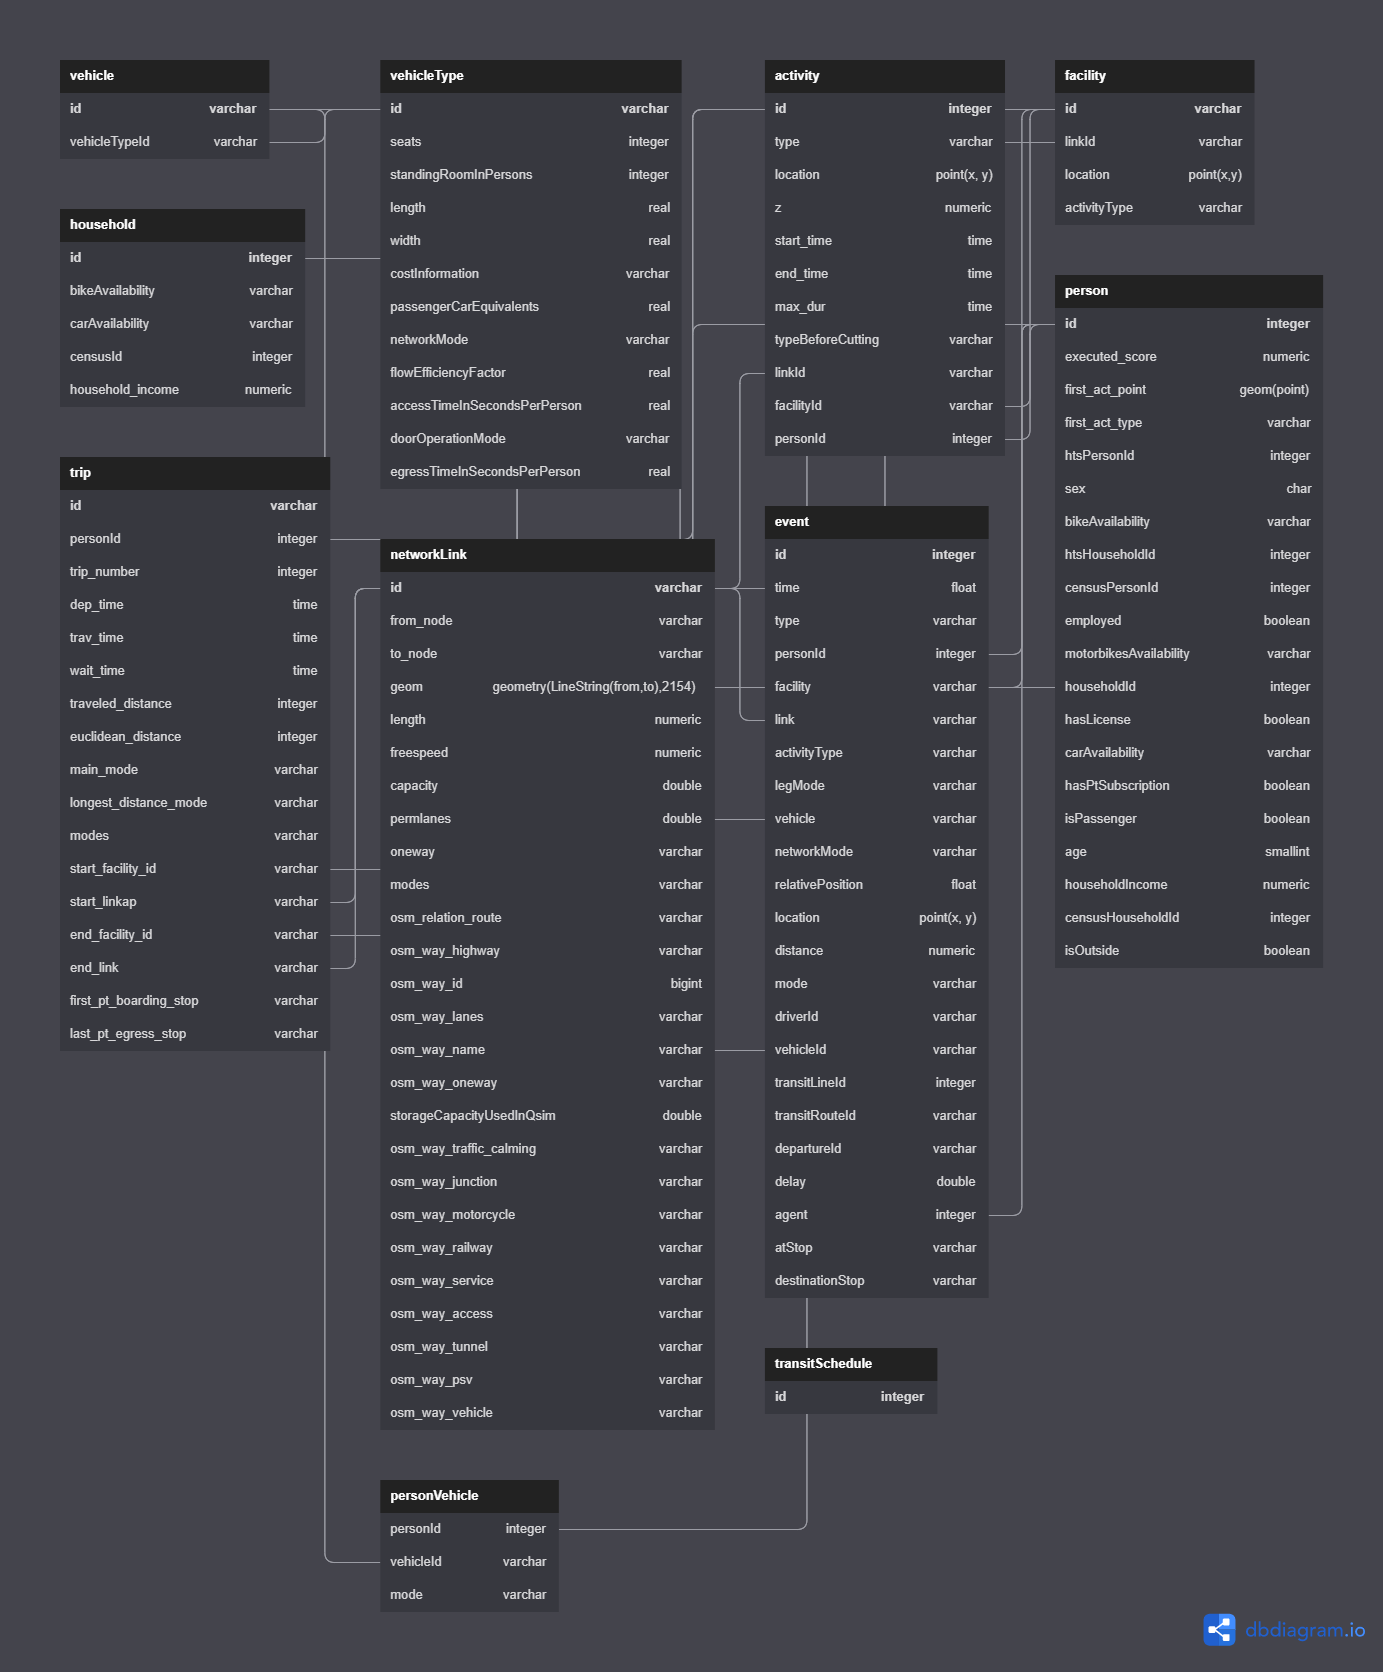
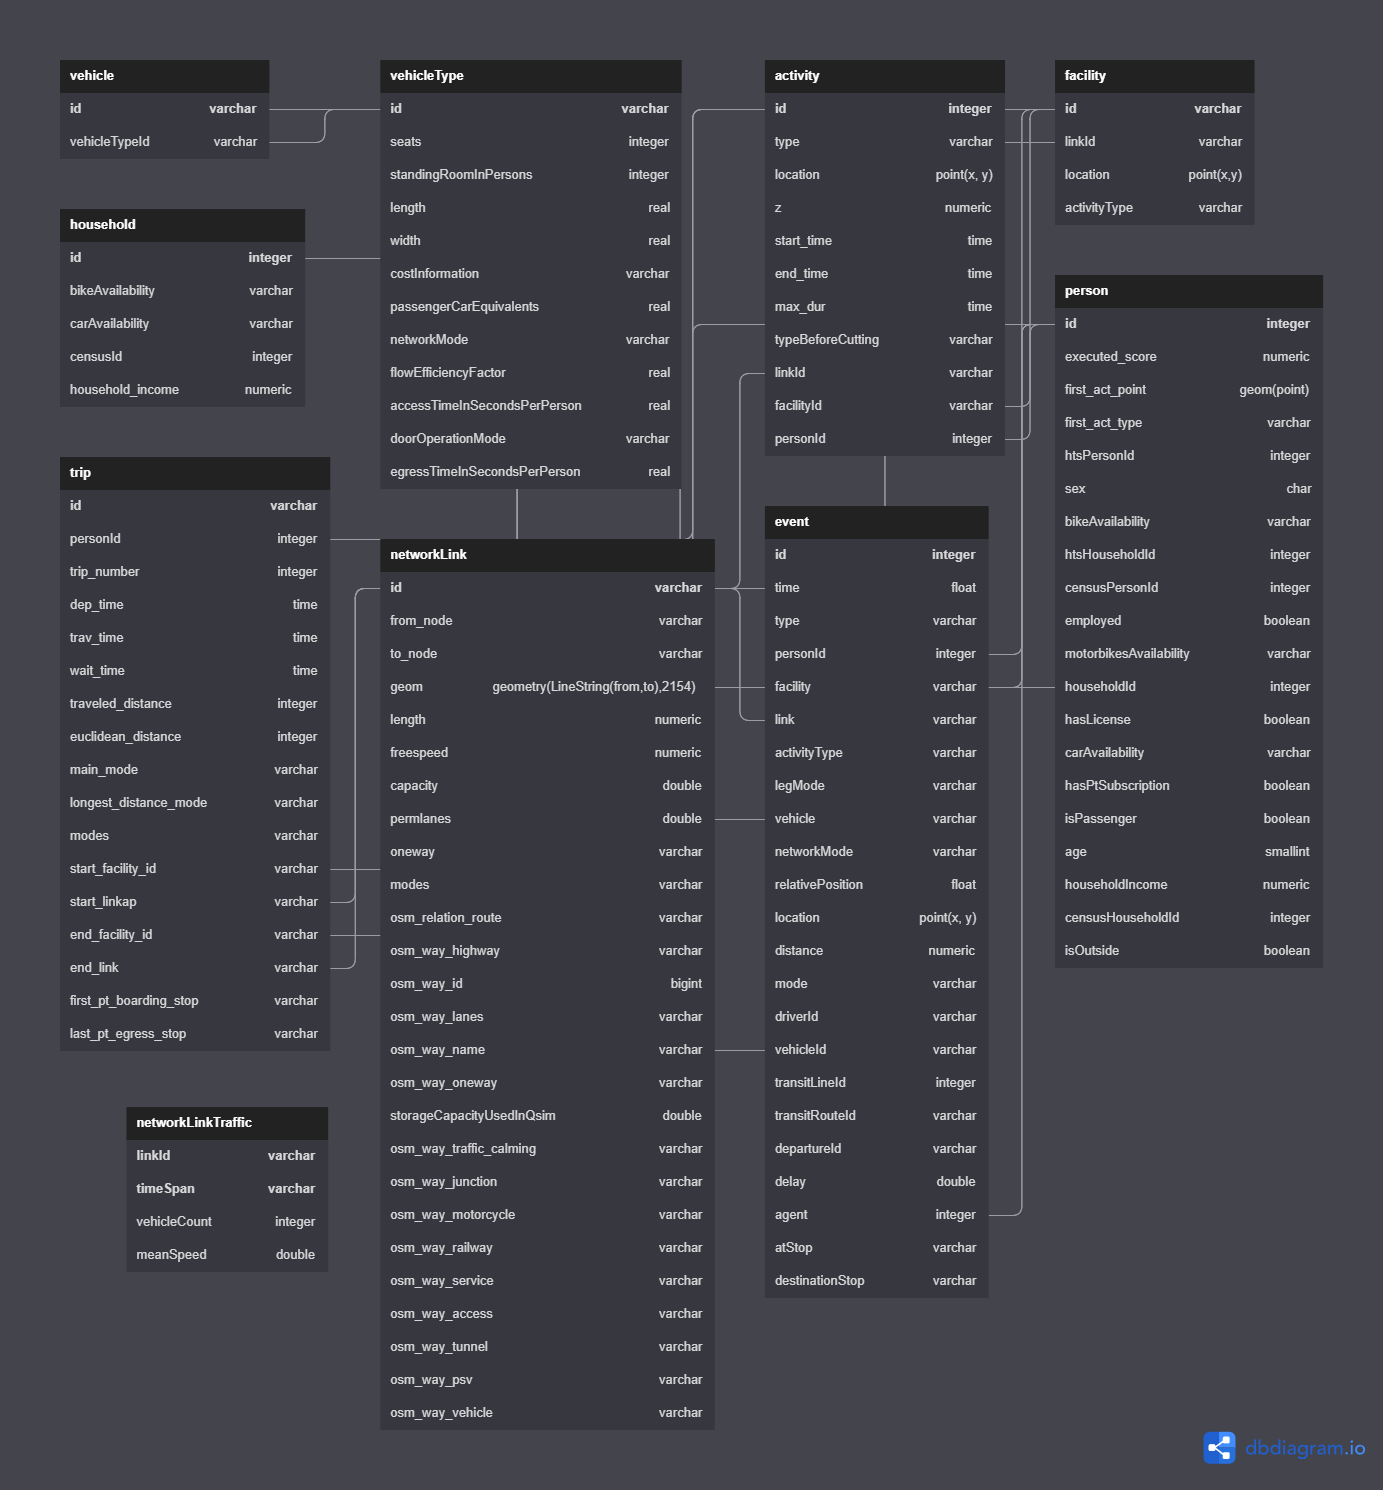
Updated database scheme and postgres template. Updated config file.

diff --git a/src/config.py b/src/config.py
@@ -10,6 +10,7 @@ PATH_NETWORK = PATH_SIMULATION_OUTPUT + '/output_network.xml.gz'
 PATH_PERSONS = PATH_SIMULATION_OUTPUT + '/output_persons.csv'
 PATH_PLANS = PATH_SIMULATION_OUTPUT + '/output_plans.xml.gz'
 PATH_TRIPS = PATH_SIMULATION_OUTPUT + '/output_trips.csv'
+PATH_DETAILED_NETWORK = PATH_SIMULATION_OUTPUT + '/detailed_network.csv'
 
 DB_CONNECTION_STRING = 'postgresql+psycopg2://<username>:<password>@<location>:<port>/<databaseName>' # Connection string to the database (eg: postgresql+psycopg2://postgres:admin@localhost:5432/test)
 DB_SRID = '2154' # SRID used in matsim
